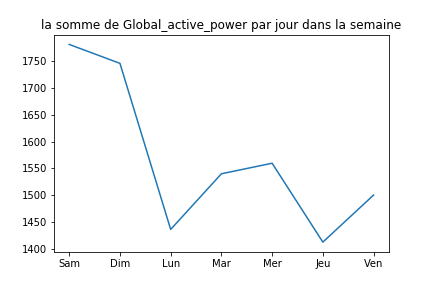
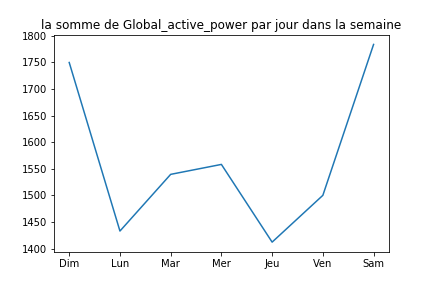
start to create ML model

diff --git a/src/nettoyer_donnees.py b/src/nettoyer_donnees.py
@@ -11,6 +11,12 @@ df.replace('?', np.nan, inplace=True)
 df = df.astype('float64')
 
 def remplir_donnees(values):
+    '''
+    remplir les données pour celles de la même heure la veille.
+
+    Parameters:
+    -- values - un np.array avec 2 dimensions 
+    '''
     one_day = 60 * 24
     for row in range(values.shape[0]):
         for col in range(values.shape[1]):

diff --git a/README.md b/README.md
@@ -43,9 +43,18 @@ Je suis intéressé par la somme de consommation de chaque jour car je veux prev
 
 Ensuite, j'analyse la saisonnalité et le pattern de consommation dans une semaine de `Global_active_power`. C'est intéressant de faire la même chose pour `Global_reactive_power`,`Voltage` et `Global_intensity` si on a le temps.
 
-<img src="./data/output/images/gap_days_all_years.png">
-<img src="./data/output/images/gap_days_all_weeks.png">
+![](./data/output/images/gap_days_all_years.png)  ![](./data/output/images/gap_days_all_weeks.png)
 
-D'ailleurs, je aussi analyser le même chose pour `Sub_metering`. On veut bien la saisonnalité de `Sub_metering 3 et 4`.
+D'ailleurs, je aussi analyse le même chose pour `Sub_metering`. On veut bien la saisonnalité de `Sub_metering 3 et 4`.
 
 <img src='./data/output/images/sub_metering_days_all_years.png'>
+
+## Création du modèle de Machine Learning
+
+Je veux créer un modèle de Machine Learning à predire la consommation électrique prévue pour la semaine à venir.
+
+### diviser un ensemble de données en ensembles train / test
+
+Je vais utiliser les données des trois premières années pour l'entrainement du modèle et la dernière année pour l'évaluation du modèle.
+
+Les données d'un ensemble de données seront divisées en semaines. Ce sont des semaines qui commencent un dimanche et se terminent un samedi. Donc, pour l'ensemble de train, il y a 159 semaines, et l'ensemble de test a 46 semaines.
